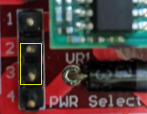
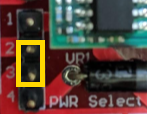
first complete version

Changed region(s): [[0.1088, 0.3421, 0.3265, 0.7632]]

diff --git a/README.md b/README.md
@@ -1,27 +1,86 @@
 # Unofficial Falcon PiCap Manual
-## Version 1.0
+**Version 0.1**
 
+This is the unofficial manual for the Falcon PiCap.  It is not associated with PixelController, LLC, David Pitts, or Falcon Christmas.  This information is provided as is with no warranty, the authors and contributors or anyone else connected with this manual are not responsible for your use of the information contained or linked in this manual, use at your own risk.
 
+The Falcon PiCap is a Raspberry Pi HAT that can control two strings of WS2811 pixels, output DMX/Renard/LOR, and has a real-time clock.  It is designed to be used with Falcon Player ([Falcon Christmas](https://falconchristmas.com/)).
+
+This manual is specific to the board designed and sold by David Pitts at [PixelController](https://www.pixelcontroller.com).  While there may be other versions sold by other parties, this is the only recommended board.  The reasons are as followed:
+* While the actual circuit design is not overly complex, the well designed PCB layout of this board is critical when dealing with large currents.  This is not only to prevent show failures, but is a safety issue as well.
+* For the same reasons above, this board has high quality, correctly specced components.  Other boards may have questionable components from unknown origins.
+* The developers of Falcon Player specifically support this board
+* David Pitts donates 50% of proceeds of sales of the Falcon PiCap to the Falcon Player Development team.
+
+**[Purchase the Falcon PiCap here](https://www.pixelcontroller.com/store/index.php?id_product=47&controller=product)**
+
+## Falcon PiCap Overview
+![image](images/Falcon_PiHat_Overview.png?raw=true)
 
 ## Power Configuration
-### PWR Select Jumpers
+The Falcon PiCap has two power settings that need to be configured prior to use.  First you need to select if you are using a 5V or a 7-24V input.  Second you need to configure if you will be powering the Raspberry Pi from the Falcon PiCap.
+
+
+### Selecting 5V or 7-24V Input
+![image](images/PWR_Select.png?raw=true)
+
+The PiCap can be powered with a 5V input or a 7-24V input.  When using a 7-24V input, the onboard voltage regulator is used to generate a 5v rail for the onboard ICs and optionally power the PI itself (See Powering the Raspberry Pi).  With a 5V input, the onboard voltage regulator is bypassed and the input is used to power the ICs and optionally the Pi.  For both options, the WS2811 outputs are powered directly by the 5V or 7-24V input.  Use the PWR Select jumpers to configure 5V or 7-24V input.
+
+| Input | Jumper Setting | Notes |
+| ----- | -------------- | ----- |
+| 5V | One jumper on 2&3 <br> ![image](images/5V_PWR.png?raw=true) | The onboard voltage regulator is bypassed and everything is directly powered by the 5V input.  **If this jumper configuration is selected ensure your input is not greater then 5V, else you risk damaging the PiCap and the Raspberry Pi** |
+| 7-24V | Two jumpers on: <br>- 1&2 <br>- 3&4 <br> ![image](images/7-24V_PWR.png?raw=true) | The onboard voltage regulator is used to power the ICs and optionally the Pi, the WS2811 outputs are powered by the 7-24V input.|
+
+### Powering the Raspberry Pi
 ![image](images/PWR_PI.png?raw=true)
-The PiCap can be powered with a 5V input or a 7-24V input.  When using a 7-24V input, the onboard voltage regulator is used to generate a 5v rail for onbord ICs and optionally power the PI itselft (See PWR PI Jumper).  With a 5V input, the onboard voltage regulator is bypassed and the input is used to power the ICs and optionally the Pi.  For both options, the WS2811 outputs are powered directly by the 5V or 7-24V input.  Use the PWR Select jumpers to configure 5V or 7-24V input.  
+
+The PiCap gives you the option to power the Raspberry Pi using the power source connected to the PiCap.  This saves you from having to power the Raspberry Pi separately.  If you do choose to power the Pi directly from this PiCap, DO NOT power the Pi from any other source including other Pi hats or the USB cable.
 
 | Configuration | Jumper Setting | Notes |
 | ------------- | -------------- | ----- |
-| 5V | Use one jumper on 2 and 3 <br> ![image](images/5V_PWR.png?raw=true) | The onboard voltage regulator is bypassed and everything is directly powered by the 5V input. |
-| 7-24V | Use two jumpers: <br>- 1 and 2 <br>- 3 and 4 <br> ![image](images/7-24V_PWR.png?raw=true) | The onboard voltage regulator is used to power the ICs and optionally the Pi, the WS2811 outputs are powered by the 7-24V input.|
+| Power the Pi from the PiCap| Jumper On <br> ![image](images/PWR_PI-Jumper.png?raw=true) | The Pi will receive power directly from the power source connected to the PiCap or via the onboard power supply depending on the power selection.  **Important - Do not power Pi from any other sources; do not plug the USB cable in.**|
+| Power the Pi separately from the PiCap | Jumper Off <br> ![image](images/PWR_PI-No-Jumper.png?raw=true) | The Pi will have it's own power source separate from the PiCap.  With this option, it is safe to plug the Pi in with the USB cable.|
 
-### PWR PI Jumper
-![image](images/PWR_PI.png?raw=true)
+### Other Notes
+* When powering the Raspberry Pi with the PiCap (PWR PI jumper on), take caution as you are bypassing some of the power protection circuit of the Raspberry Pi.
+* The 7-24V input has a polarity protection diode, the 5V input does not.  Use extra caution to ensure the correct polarity when hooking up a 5V power source.
+* The onboard voltage regulator appears to be an OKI-78SR or some variant of it.  The datasheet can be found [here](https://power.murata.com/pub/data/power/oki-78sr.pdf).
+* The F3 fuse, protecting the onboard components and optionally the Raspberry Pi, is rated for 2A.  However, (when using the 7-24V input) the onboard voltage regulator is rated for 1.5A and the voltage regulator may fail prior to the fuse blowing.
+* The OKI-78SR is rated for 7-36V.  This may mean if your PiCap has this voltage regulator and you want to void the warranty, take on additional risks, you might be able to power 36V lights with the PiCap.  You might need to replace the input filter cap (C3) with one that is rated for 72V or higher (2 x input voltage).  There may be other design constraints that would limit using an input voltage greater then 36.
 
-The PiCap gives you the option to power the Raspberry Pi using the power source connected to the PiCap.  This saves you from having to power Raspberry Pi seperately.  If you do choose to power the Pi directly from this PiCap, DO NOT power the Pi from any other souce including other Pi hats or USB cable.
+## Real-Time Clock
+The real-time clock chip and battery provide the Pi a clock that keeps time when the Pi has no power.  This is a useful feature for running shows based on schedules.  If you do not need this feature, you do not have to have the battery installed to use the PiCap's other outputs.
 
-| Configuration | Jumper Setting | Notes |
-| ------------- | -------------- | ----- |
-| Power the Pi from the PiCap.  Jumper is on. | ![image](images/PWR_PI-Jumper.png?raw=true) | The Pi will receive power directly from the power source connected to the PiCap or via the onboard power supply depending on the power selection.  **Important - Do not power Pi from any other sources; do not plug USB cable in.**|
-| Power the Pi seperately from the PiCap.  Jumper is off. | ![image](images/PWR_PI-No-Jumper.png?raw=true) | The Pi will have it's own power source seperate from the PiCap.  You can plug the Pi in with the USB cable.|
+The battery contact takes a CR1225 battery and is installed with the positive (+)side up, negative (-) side toward the circuit board. 
 
-Other notes
+The battery should last numerous years (in theory 10 years) while installed.  If you want, you can remove it when not using the PiCap for extended periods, though that may not extend the battery life much as the battery breaks down naturally anyways.
+
+## DMX/LOR/REN Output
+The PiCap has one RJ-45 output that can be configured for DMX, Light-O-Rama, or Renard.
+
+To configure the output, use three jumpers on the row indicated for the desired output (DMX, LOR, or Renard).  For example, to select DMX output, place three jumpers on the top row.
+
+
+In addition, there is a jumper to enable a 120Ω termination resistor.  In most cases this would be used, if you have a case where it is not needed you can remove this jumper.
+
+![image](images/DMX_Selected.png?raw=true)
+
+### Pin Assignment
+| Output | Data + | Data - | GND |
+| ------ | ------ | ------ | --- |
+| **DMX** | Pin 2 | Pin 1 | Pin 7 |
+| **LOR** | Pin 5 | Pin 4 | Pin 6 |
+| **REN** | Pin 4 | Pin 5 | Pin 2|
+
+## Raspberry Pi Pin Usage
+
+| Pin Number | Pin Name | Pin Usage |
+| ---------- | -------- | --------- |
+| 3 | SDA | I2C data line to communicate with real-time clock chip (clock address is 0x68) |
+| 4 | SCL | I2C clock line to communicate with real-time clock chip |
+| 8 | TXD | Serial transmit, used for DMX/LOR/REN output |
+| 10 | RXD | Serial receive, connected to the differential transceiver, but would not actually be used |
+| 12 | GPIO 18 | WS2811 Output 1, uses PWM0 |
+| 35 | GPIO 19 | WS2811 Output 2, uses PWM1 |
+| 2, 4 | 5.0V | Connected when PWR PI jumper is used |
+|6, 9, 14, 20, 25, 30, 34, 39 | GND | Connected to PiCap's ground |
 
